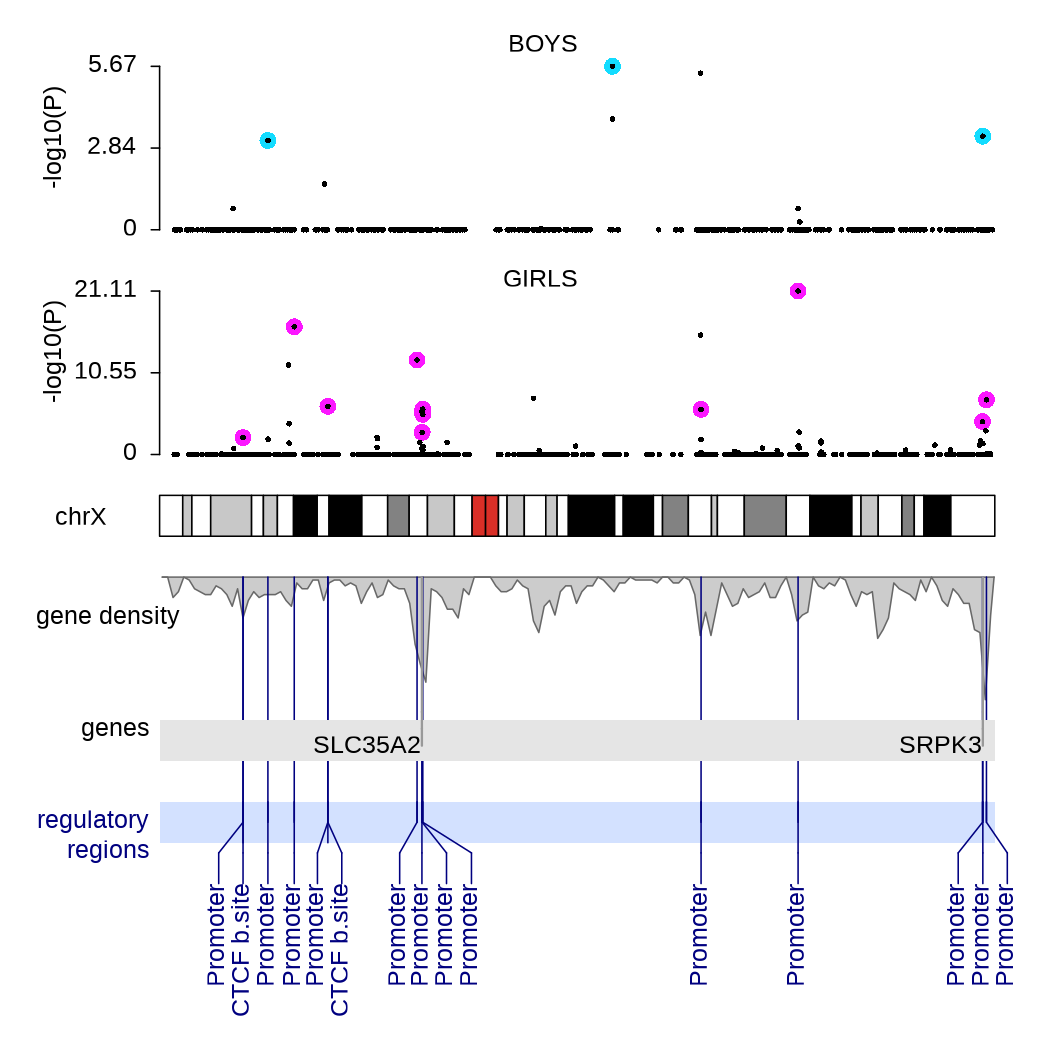
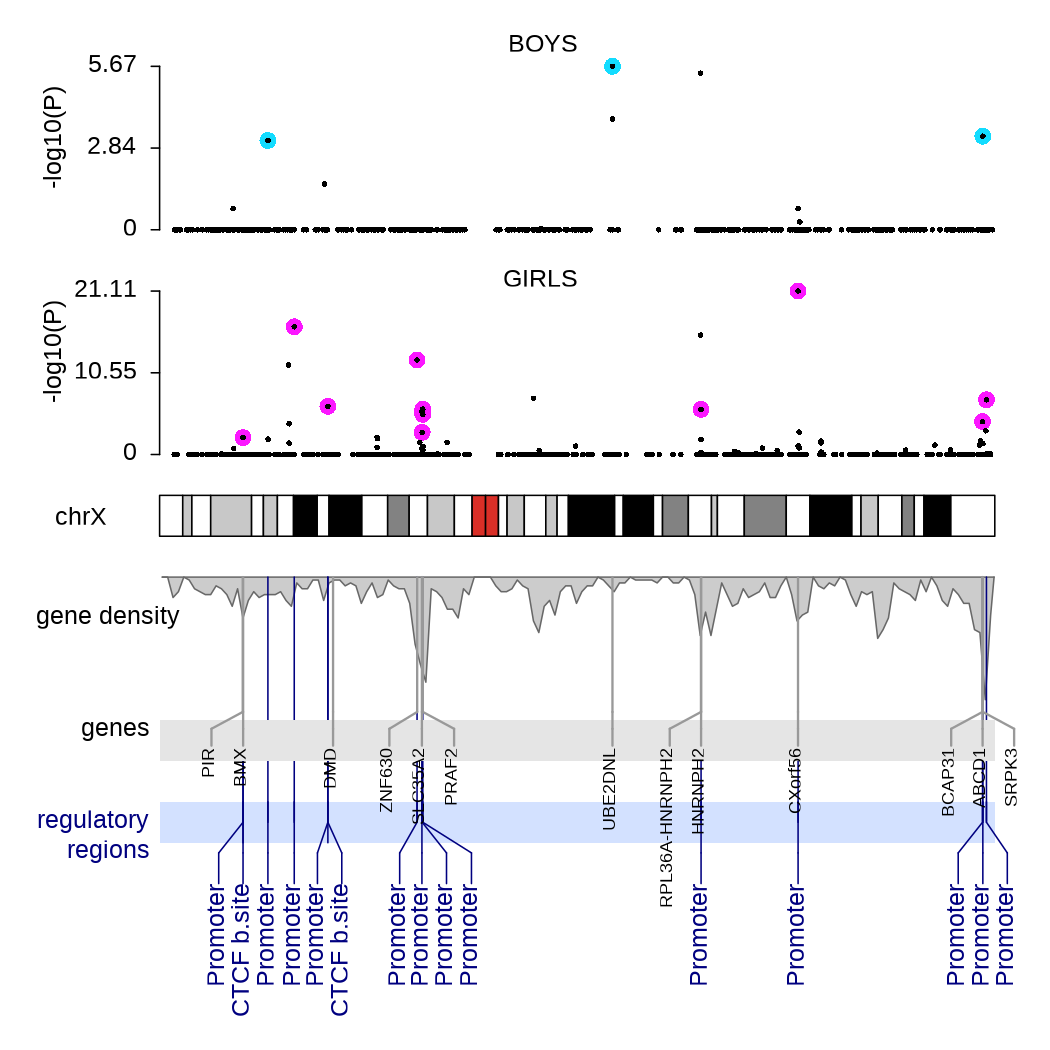
fixed showing gene names in DMRs

diff --git a/Presentation_07-01-2022/JRom_Xchrom_presentation_2022-01-07.html b/Presentation_07-01-2022/JRom_Xchrom_presentation_2022-01-07.html
@@ -294,7 +294,6 @@ class: top, center
 
 &lt;/div&gt;
 
-&lt;br&gt;
 currently:
 
 - <svg aria-hidden="true" role="img" viewBox="0 0 384 512" style="height:1em;width:0.75em;vertical-align:-0.125em;margin-left:auto;margin-right:auto;font-size:inherit;fill:currentColor;overflow:visible;position:relative;"><path d="M120 72c0-39.765 32.235-72 72-72s72 32.235 72 72c0 39.764-32.235 72-72 72s-72-32.236-72-72zm254.627 1.373c-12.496-12.497-32.758-12.497-45.254 0L242.745 160H141.254L54.627 73.373c-12.496-12.497-32.758-12.497-45.254 0-12.497 12.497-12.497 32.758 0 45.255L104 213.254V480c0 17.673 14.327 32 32 32h16c17.673 0 32-14.327 32-32V368h16v112c0 17.673 14.327 32 32 32h16c17.673 0 32-14.327 32-32V213.254l94.627-94.627c12.497-12.497 12.497-32.757 0-45.254z"/></svg> *Julia Romanowska*,
